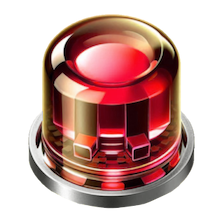
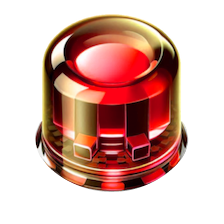
VisualSprite and clean up

diff --git a/Server/MainPage.xaml b/Server/MainPage.xaml
@@ -9,7 +9,10 @@
     xmlns:mc="http://schemas.openxmlformats.org/markup-compatibility/2006"
     mc:Ignorable="d">
 
-    <Grid x:Name="root" Margin="10" BorderThickness="0">
+    <Grid
+        x:Name="root"
+        Margin="10"
+        BorderThickness="0">
 
         <!--#region [Watermark]-->
         <Image
@@ -21,58 +24,22 @@
             Stretch="Uniform" />
         <!--#endregion-->
 
-        <!--#region LED signal-->
+        <!--#region [LED signal]-->
         <Grid
-            x:Name="gridLED"
-            Width="50"
-            Height="50"
-            Margin="0,0,18,0"
+            x:Name="layer1"
+            Width="52"
+            Height="52"
+            Margin="0,-22,36,0"
             HorizontalAlignment="Right"
-            VerticalAlignment="Top">
-            <!--
-                NOTE: For 'Image' controls the 'CompositeMode=MinBlend' will result in a
-                more subtle effect, but is not as pronounced as 'CompositeMode=SourceOver'.
-            -->
-            <Image
-                x:Name="imgLED_off"
-                Width="50"
-                Opacity="1"
-                Source="/Assets/LED8_off.png"
-                Stretch="Uniform"
-                Visibility="Visible" />
-            <ctrl:CompShadow
-                x:Name="comp_on"
-                BlurRadius="8"
-                OffsetX="0"
-                OffsetY="0"
-                ShadowOpacity="0.8"
-                Visibility="Collapsed"
-                Color="#00F000">
-                <Image
-                    x:Name="imgLED_on"
-                    Width="50"
-                    Opacity="1"
-                    Source="/Assets/LED8_on.png"
-                    Stretch="Uniform"
-                    Visibility="Visible" />
-            </ctrl:CompShadow>
-            <ctrl:CompShadow
-                x:Name="comp_err"
-                BlurRadius="8"
-                OffsetX="0"
-                OffsetY="0"
-                ShadowOpacity="0.8"
-                Visibility="Collapsed"
-                Color="#F00000">
-                <Image
-                    x:Name="imgLED_err"
-                    Width="50"
-                    Opacity="1"
-                    Source="/Assets/LED8_err.png"
-                    Stretch="Uniform"
-                    Visibility="Visible" />
-            </ctrl:CompShadow>
-        </Grid>
+            VerticalAlignment="Top" />
+
+        <Grid
+            x:Name="layer2"
+            Width="52"
+            Height="52"
+            Margin="0,-22,36,0"
+            HorizontalAlignment="Right"
+            VerticalAlignment="Top" />
         <!--#endregion-->
 
         <ProgressRing

diff --git a/Server/MainPage.xaml.cs b/Server/MainPage.xaml.cs
@@ -145,12 +145,14 @@ public sealed partial class MainPage : Page, INotifyPropertyChanged
         var workingCode = Shared.SecurityHelper.GenerateSecureCode6(_secret);
         UpdateInfoBar($"Secure code for the next {Extensions.MinutesRemainingInCurrentHour()} minutes will be {workingCode}", MessageLevel.Information);
 
-        gridLED.Visibility = Visibility.Collapsed;
+        #region [LED image toggle]
         // We're using the Compositor to swap the image, instead of the Image.Visibility trick.
         float width = 48; float height = 48;
-        LoadVisualComposition(root, "ms-appx:///Assets/LED8_off.png", out _visualOff, Microsoft.UI.Colors.Transparent, width, height);
-        LoadVisualComposition(root, "ms-appx:///Assets/LED8_on.png", out _visualOn, Windows.UI.Color.FromArgb(255, 0, 245, 0), width, height);
-        LoadVisualComposition(root, "ms-appx:///Assets/LED8_err.png", out _visualErr, Windows.UI.Color.FromArgb(255, 245, 0, 0), width, height);
+        LoadVisualComposition(layer1, "ms-appx:///Assets/LED14_off.png", out _visualOff, Microsoft.UI.Colors.Transparent, new System.Numerics.Vector3(0.5f, 0.5f, 0f), width, height, 0.9f);
+        LoadVisualComposition(layer2, "ms-appx:///Assets/LED14_on.png", out _visualOn, Windows.UI.Color.FromArgb(255, 0, 245, 0), new System.Numerics.Vector3(0.5f, 0.5f, 0f), width, height, 0.9f);
+        LoadVisualComposition(layer2, "ms-appx:///Assets/LED14_err.png", out _visualErr, Windows.UI.Color.FromArgb(255, 245, 0, 0), new System.Numerics.Vector3(0.5f, 0.5f, 0f), width, height, 0.9f);
+        SetVisualChild(layer1, _visualOff); // off image always visible
+        #endregion
     }
 
     /// <summary>
@@ -162,14 +164,7 @@ public sealed partial class MainPage : Page, INotifyPropertyChanged
         if (_loaded)
         {
             UpdateInfoBar($"Server Error: {err.Message}", MessageLevel.Error);
-            imgLED_err.DispatcherQueue.TryEnqueue(() =>
-            {
-                //comp_on.Visibility = Visibility.Collapsed;
-                //comp_err.Visibility = Visibility.Visible;
-
-                // We're using the Compositor to swap the image, instead of the Image.Visibility trick.
-                SetVisualChild(root, _visualErr);
-            });
+            SetVisualChild(layer2, _visualErr); // We're using the Compositor to swap the image, instead of the Image.Visibility trick.
         }
         else
             Debug.WriteLine($"⚠ Server Error: {err.Message}");
@@ -190,32 +185,12 @@ public sealed partial class MainPage : Page, INotifyPropertyChanged
                 if (_toggle)
                 {
                     _toggle = false;
-                    imgLED_on.DispatcherQueue.TryEnqueue(() =>
-                    {
-                        /*
-                         NOTE: Setting the source causes a flicker.
-                         img.Source = new Microsoft.UI.Xaml.Media.Imaging.BitmapImage(new Uri("ms-appx:///Assets/LED1_off.png"));
-                        */
-
-                        //comp_on.Visibility = Visibility.Collapsed;
-                        // We're using the Compositor to swap the image, instead of the Image.Visibility trick.
-                        SetVisualChild(root, _visualOff);
-                    });
+                    SetVisualChild(layer2, _visualOff); // We're using the Compositor to swap the image, instead of the Image.Visibility trick.
                 }
                 else
                 {
                     _toggle = true;
-                    imgLED_on.DispatcherQueue.TryEnqueue(() =>
-                    {
-                        /*
-                         NOTE: Setting the source causes a flicker.
-                         img.Source = new Microsoft.UI.Xaml.Media.Imaging.BitmapImage(new Uri("ms-appx:///Assets/LED1_on.png"));
-                        */
-
-                        //comp_on.Visibility = Visibility.Visible;
-                        // We're using the Compositor to swap the image, instead of the Image.Visibility trick.
-                        SetVisualChild(root, _visualOn);
-                    });
+                    SetVisualChild(layer2, _visualOn); // We're using the Compositor to swap the image, instead of the Image.Visibility trick.
                 }
                 #endregion
 
@@ -246,18 +221,10 @@ public sealed partial class MainPage : Page, INotifyPropertyChanged
                 }
                 else
                 {
+                    SetVisualChild(layer2, _visualErr); // We're using the Compositor to swap the image, instead of the Image.Visibility trick.
                     this.DispatcherQueue.TryEnqueue(() =>
                     {
                         /** Tab 2 (failed security check) **/
-
-                        /* 
-                         NOTE: Setting the source causes a flicker.
-                         img.Source = new Microsoft.UI.Xaml.Media.Imaging.BitmapImage(new Uri("ms-appx:///Assets/LED1_err.png"));
-                        */
-
-                        //comp_on.Visibility = Visibility.Collapsed;
-                        //comp_err.Visibility = Visibility.Visible;
-                        SetVisualChild(root, _visualErr);
 
                         if (tvi2.Header != null && tvi2.Header is string hdr && hdr.Equals("Available", StringComparison.OrdinalIgnoreCase))
                             tvi2.Header = $"{jmsg.Sender}";
@@ -374,9 +341,6 @@ public sealed partial class MainPage : Page, INotifyPropertyChanged
 
     #region [Image toggle using Compositor]
 
-    // NOTE: This was an experiment to see if we could use the Compositor to swap-in/swap-out the LED image states.
-    // It works, but the setup is more complicated than just setting the <CompShadow> control's visibility.
-
     Microsoft.UI.Composition.SpriteVisual? _visualOn = null;
     Microsoft.UI.Composition.SpriteVisual? _visualOff = null;
     Microsoft.UI.Composition.SpriteVisual? _visualErr = null;
@@ -393,18 +357,29 @@ public sealed partial class MainPage : Page, INotifyPropertyChanged
         visual.IsVisible = state;
     }
 
+    /// <summary>
+    /// Applies the given <paramref name="visual"/> to the <see cref="FrameworkElement"/> <paramref name="fe"/>.
+    /// </summary>
+    /// <remarks>The <paramref name="visual"/> can be any <see cref="Microsoft.UI.Composition.ContainerVisual"/></remarks>
     public void SetVisualChild(FrameworkElement fe, Microsoft.UI.Composition.SpriteVisual? visual)
     {
         if (fe == null)
             return;
 
-        ElementCompositionPreview.SetElementChildVisual(fe, visual);
+        fe.DispatcherQueue.TryEnqueue(Microsoft.UI.Dispatching.DispatcherQueuePriority.Normal, () =>
+        {
+            // Remove old reference
+            ElementCompositionPreview.SetElementChildVisual(fe, null);
+            // Apply new visual
+            ElementCompositionPreview.SetElementChildVisual(fe, visual);
+        });
     }
 
     /// <summary>
     /// This will lay down the <paramref name="uriAsset"/> image on the <see cref="FrameworkElement"/> using the Compositor.
+    /// If <paramref name="glowColor"/> is not <see cref="Microsoft.UI.Colors.Transparent"/>, a drop shadow will be applied.
     /// </summary>
-    public void LoadVisualComposition(FrameworkElement fe, string uriAsset, out Microsoft.UI.Composition.SpriteVisual visual, Windows.UI.Color shadowColor, float width = 0, float height = 0)
+    public void LoadVisualComposition(FrameworkElement fe, string uriAsset, out Microsoft.UI.Composition.SpriteVisual visual, Windows.UI.Color glowColor, System.Numerics.Vector3 offsetAdjustment, float width = 0, float height = 0, float opacity = 1)
     {
         Microsoft.UI.Xaml.Media.LoadedImageSurface? surface;
         var targetVisual = ElementCompositionPreview.GetElementVisual(fe);
@@ -434,19 +409,18 @@ public sealed partial class MainPage : Page, INotifyPropertyChanged
             visual.Size = new System.Numerics.Vector2(width, height);
         }
 
-        // Top-right corner
-        visual.RelativeOffsetAdjustment = new System.Numerics.Vector3(0.93f, 0.0f, 0f); // center the image
-
+        visual.RelativeOffsetAdjustment = offsetAdjustment; // = new System.Numerics.Vector3(0.93f, 0.001f, 0f); // ⇦ Top-right corner
         visual.Brush = brush;
+        visual.Opacity = opacity;
 
-        if (shadowColor != Microsoft.UI.Colors.Transparent)
+        if (glowColor != Microsoft.UI.Colors.Transparent)
         {
             // Create drop shadow (this is noticeable on a CompositionSurfaceBrush, but not on a CompositionColorBrush).
             Microsoft.UI.Composition.DropShadow shadow = compositor.CreateDropShadow();
             shadow.Opacity = 0.8f;
-            shadow.Color = shadowColor;
+            shadow.Color = glowColor;
             shadow.BlurRadius = 20f;
-            shadow.Offset = new System.Numerics.Vector3(0, 0, -1);
+            shadow.Offset = new System.Numerics.Vector3(0, -1, -1); // glow slightly up for the LED effect
             // Specify mask policy for shadow.
             shadow.SourcePolicy = Microsoft.UI.Composition.CompositionDropShadowSourcePolicy.InheritFromVisualContent;
 
@@ -460,7 +434,7 @@ public sealed partial class MainPage : Page, INotifyPropertyChanged
         
         visual.IsVisible = true; // can be used to toggle the image on/off
 
-        // Set the visual onto the Image control
+        // Set the visual onto the Image control (do this later during state change)
         //ElementCompositionPreview.SetElementChildVisual(fe, visual);
     }
 
